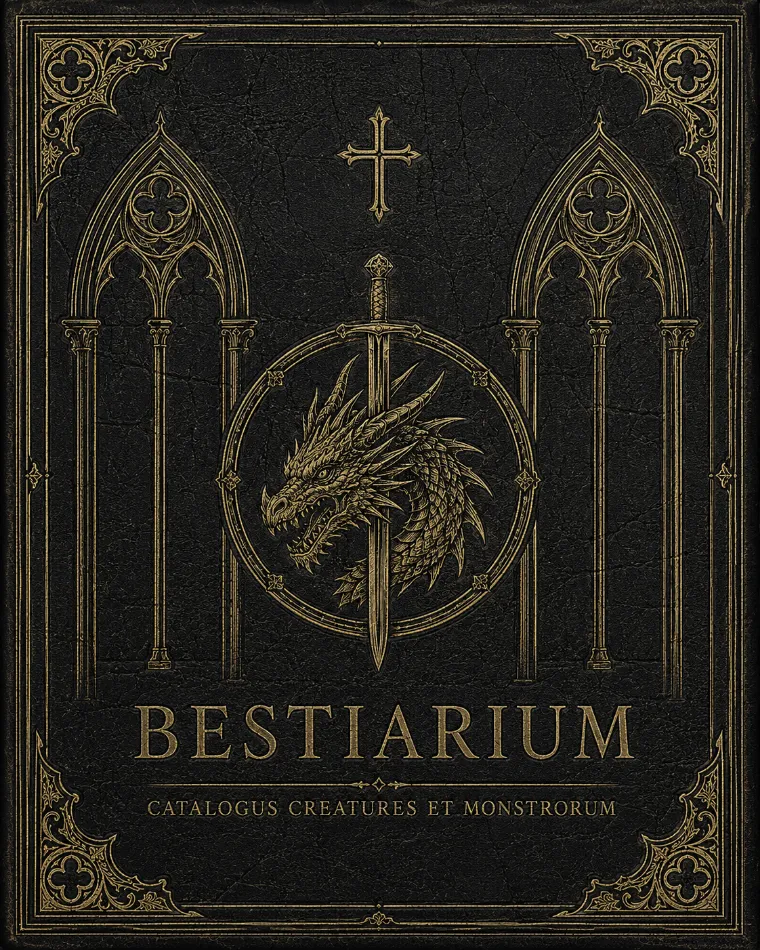
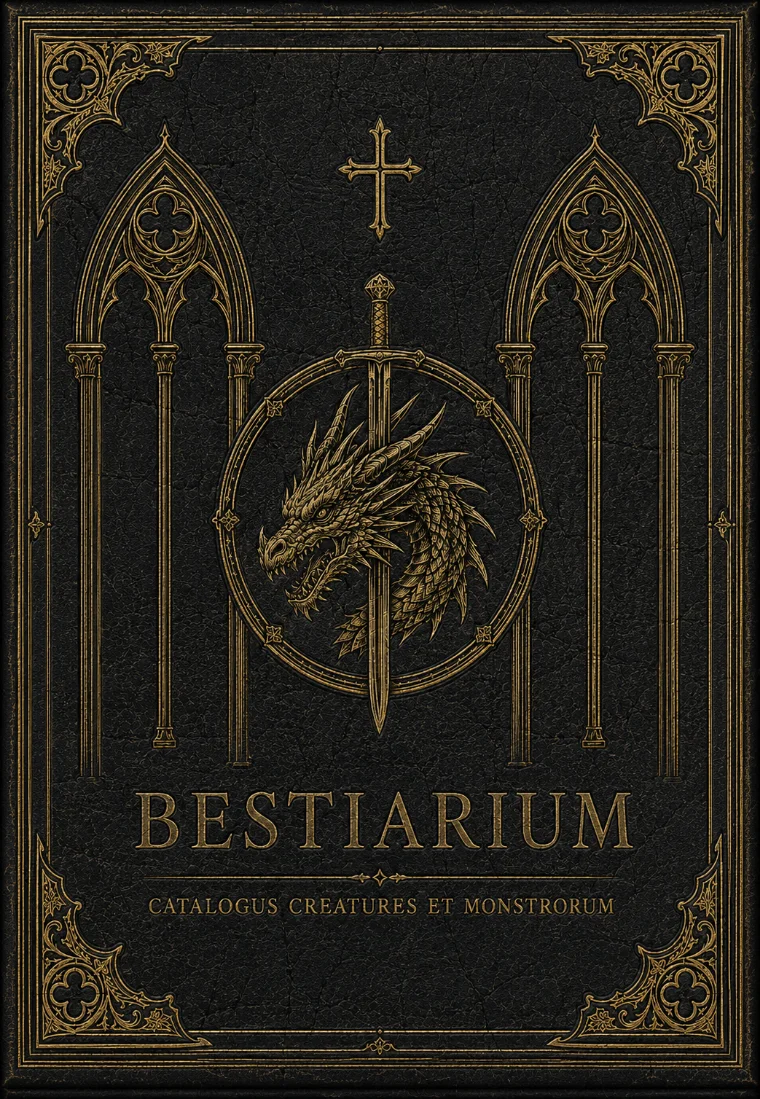
feat(bestiary): готическая пропорция книги 1:1.446
Пропорция была 1:1.2495 — снята со старой обложки 1122×1402 и оказалась слишком
квадратной. Сверка с переплётным делом: средневековая страница заметно уже и выше,
готический канон для фолианта 1:1.43-1.50, реальные тома дают 1.45.

Александр прислал обложку 1043×1508, то есть ровно 1:1.4459. До неё менять
геометрию было нельзя: тиснение растянулось бы. Теперь геометрия повторяет ассет
точно.

За пропорцией потянулось:
- ПРОПОРЦИЯ СЦЕНЫ пересчитана ОТ ГЕОМЕТРИИ, а не от старого ассета: две крышки
  плюс два рубчика дают 2.100 на 1.502, то есть 1.398. Прежние 1586/992 = 1.599
  оставили бы холст на 14% шире самой книги, и она болталась бы в пустоте;
- ЗАМКИ уехали вместе с крышкой на ширину рубчика — иначе налезали на тиснение.

Заодно убраны замеры СТАРОЙ сцены (границы пергамента на развороте, пропорция
крышки, перехлёст). Та сцена собиралась из плоских картинок и подменяла крышку
разворотом на ребре; нынешняя считает геометрию сама. Ни одна из этих констант не
использовалась вне своего модуля и собственных тестов, но одна из них уже начала
врать: тест на ней упал ровно после перехода на новую пропорцию. Два источника
правды рядом неизбежно расходятся.

Тесты переписаны под то, что проверяют теперь: пропорция сцены сходится с
геометрией, холст не шире книги, такты не превращаются в хлопок.

Проверено на стенде в обоих состояниях. НЕ выкатывалось.

diff --git a/app/lib/bestiary.test.ts b/app/lib/bestiary.test.ts
@@ -1,61 +1,49 @@
+// Числа бестиария, от которых зависит и сцена, и её React-обёртка.
+//
+// Прежние тесты меряли ассеты СТАРОЙ сцены — той, что собиралась из плоских
+// картинок и подменяла крышку разворотом в момент, когда элемент повёрнут ребром.
+// Сцена давно на three.js и считает геометрию сама, поэтому те замеры убраны
+// вместе с константами: два источника правды рядом неизбежно расходятся, и один
+// из них начинает тихо врать. Этот тест как раз и поймал расхождение, когда
+// страница перешла на готическую пропорцию.
+
 import { describe, expect, it } from "vitest";
-import {
-  COVER_RATIO,
-  OPEN_MS,
-  PAGE,
-  SPREAD_RATIO,
-  LEAVES,
-  TURN_MS,
-  coverOverhang,
-  pageAspectInSpread,
-  pageHeight,
-  pageWidth,
-} from "./bestiary";
+import { LEAVES, OPEN_MS, SPREAD_RATIO, TURN_MS } from "./bestiary";
 
-describe("геометрия бестиария", () => {
-  it("жёлоб делит разворот пополам", () => {
-    // Сняли замером, а не поставили 0.5: при перегенерации разворота ось
-    // переворота уедет, и лист начнёт вращаться мимо корешка. Пусть об этом
-    // скажет тест, а не глаз на проде.
-    expect(PAGE.gutter).toBeCloseTo(0.5, 2);
+describe("числа бестиария", () => {
+  it("пропорция сцены совпадает с геометрией раскрытой книги", () => {
+    // Ширина разворота: две крышки по (PAGE_W + кант) плюс два рубчика.
+    // Высота: крышка, то есть страница плюс кант сверху и снизу.
+    const PAGE_W = 1;
+    const PAGE_H = PAGE_W * 1.4459;
+    const SQUARE = 0.028;
+    const COVER_T = 0.022;
+    const width = 2 * (PAGE_W + SQUARE) + 2 * COVER_T;
+    const height = PAGE_H + SQUARE * 2;
+    expect(SPREAD_RATIO).toBeCloseTo(width / height, 2);
   });
 
-  it("правая страница лежит правее жёлоба и внутри разворота", () => {
-    expect(PAGE.right).toBeGreaterThan(PAGE.gutter);
-    expect(PAGE.right).toBeLessThan(1);
-    expect(pageWidth()).toBeGreaterThan(0.3);
+  it("холст не шире самой книги — иначе она болтается в пустоте", () => {
+    // Прежние 1586/992 = 1.5988 достались от разворота, нарисованного под
+    // квадратную страницу 1:1.25. После перехода на готическую 1:1.446 холст
+    // оказался бы шире книги на 14 %.
+    expect(SPREAD_RATIO).toBeLessThan(1.45);
+    expect(SPREAD_RATIO).toBeGreaterThan(1.3);
   });
 
-  it("страница занимает почти всю высоту разворота", () => {
-    expect(PAGE.top).toBeGreaterThan(0);
-    expect(PAGE.bottom).toBeLessThan(1);
-    expect(pageHeight()).toBeGreaterThan(0.9);
-  });
-
-  it("лист по пропорции сходится с разворотом", () => {
-    // Считаем ОТ ЖЁЛОБА: лист вращается вокруг корешка, а не вокруг края
-    // видимого пергамента. Разворот и лист сгенерированы порознь, 0.677 против
-    // 0.667 — полтора процента. Если расхождение вырастет, при перевороте
-    // станет видна подмена, и это должен поймать тест, а не глаз на проде.
-    const loose = 1024 / 1536;
-    expect(pageAspectInSpread()).toBeCloseTo(0.677, 2);
-    expect(Math.abs(loose / pageAspectInSpread() - 1)).toBeLessThan(0.04);
-  });
-
-  it("обложка шире половины разворота — отсюда подмена через ребро", () => {
-    // Это не дефект ассетов, а причина всей механики: честно раскрыть альбомную
-    // крышку в книжный разворот нельзя, крышка вылезет за край книги.
-    expect(coverOverhang()).toBeGreaterThan(1.5);
-    expect(COVER_RATIO).toBeLessThan(SPREAD_RATIO);
-  });
-
-  it("такты заданы и вменяемы", () => {
-    // Верхняя граница поднята осознанно: 620 мс читались как хлопок, а книга —
-    // предмет тяжёлый, и спешка выдаёт подделку вернее любой геометрии.
-    expect(OPEN_MS).toBeGreaterThan(900);
+  it("такт открытия не превращается в хлопок", () => {
+    // 620 мс читались именно хлопком: книга тяжёлая, и спешка выдаёт подделку
+    // вернее любой геометрии.
+    expect(OPEN_MS).toBeGreaterThanOrEqual(1200);
     expect(OPEN_MS).toBeLessThan(2400);
-    expect(OPEN_MS % 2).toBe(0); // делится пополам без остатка: две равные фазы
-    expect(TURN_MS).toBeGreaterThan(300);
-    expect(LEAVES).toBeGreaterThan(1);
+    expect(TURN_MS).toBeGreaterThan(500);
+    expect(TURN_MS).toBeLessThan(OPEN_MS);
+  });
+
+  it("листов хватает на разворот с обеих сторон", () => {
+    // Книга раскрывается на середине, поэтому листов нужно чётное число и хотя
+    // бы по паре на сторону.
+    expect(LEAVES % 2).toBe(0);
+    expect(LEAVES).toBeGreaterThanOrEqual(4);
   });
 });

diff --git a/app/lib/bestiary.ts b/app/lib/bestiary.ts
@@ -1,43 +1,18 @@
-// Геометрия бестиария — снята замером с самих картинок, а не подобрана на глаз.
-// Пергамент отделён от переплёта по яркости (порог 0.45), границы взяты по
-// строке через середину разворота. Пересчитывать при замене ассетов.
-
-/** Разворот: 1586×992 в исходнике. */
-export const SPREAD_RATIO = 1586 / 992;
-/** Закрытая обложка: 1448×1086. */
-export const COVER_RATIO = 1448 / 1086;
+// Общие числа бестиария, нужные и сцене, и React-обёртке.
+//
+// Замеры старой сцены (границы пергамента на развороте, пропорция крышки,
+// перехлёст) отсюда убраны: та сцена собиралась из плоских картинок и подменяла
+// крышку разворотом на ребре. Нынешняя считает геометрию сама, и держать рядом
+// два источника правды — прямой путь к расхождению.
 
 /**
- * Область правой страницы в долях разворота. Ось переворота — жёлоб; он лёг
- * ровно по центру (50.06%), но константу держим из замера, а не как 0.5:
- * при перегенерации разворота центр уедет, и лучше это увидеть в тесте.
+ * Пропорция раскрытого разворота — считается ОТ ГЕОМЕТРИИ сцены, а не от старого
+ * ассета. Две крышки (1.028 каждая) плюс два рубчика по 0.022 дают ширину 2.100,
+ * высота крышки 1.502. Прежние 1586/992 = 1.5988 достались от разворота, который
+ * рисовался под квадратную страницу 1:1.25; после перехода на готическую 1:1.446
+ * холст оказался бы на 14% шире самой книги, и она болталась бы в пустоте.
  */
-export const PAGE = {
-  gutter: 794 / 1586,
-  right: 1421 / 1586,
-  top: 27 / 992,
-  bottom: 953 / 992,
-} as const;
-
-export const pageWidth = (): number => PAGE.right - PAGE.gutter;
-export const pageHeight = (): number => PAGE.bottom - PAGE.top;
-
-/**
- * Пропорция переворачиваемого листа (ш/в) — считается ОТ ЖЁЛОБА, а не от края
- * видимого пергамента. Разница существенная: пергамент начинается на x=832
- * (ширина 588 px), но лист вращается вокруг жёлоба на x=794, то есть занимает
- * 627 px. Отсюда 0.677, а не 0.635; присланный отдельный лист даёт 0.667 и
- * сходится с этим в пределах полутора процентов — подрезать почти нечего.
- */
-export const pageAspectInSpread = (): number =>
-  (pageWidth() * SPREAD_RATIO) / pageHeight();
-
-/**
- * Обложка шире половины разворота — книга сгенерирована альбомной, а страницы
- * книжные. Отсюда единственно возможная механика открытия: подмена в момент,
- * когда элемент повёрнут ребром к зрителю и его ширина равна нулю.
- */
-export const coverOverhang = (): number => COVER_RATIO / (SPREAD_RATIO / 2);
+export const SPREAD_RATIO = 2.1 / 1.5019;
 
 /** Такт открытия, мс. Книга — предмет тяжёлый: спешка выдаёт подделку
  *  вернее любой геометрии. 620 мс читались как хлопок. */

diff --git a/app/components/bestiary/threeBook.ts b/app/components/bestiary/threeBook.ts
@@ -93,8 +93,13 @@ export interface BookScene {
 
 /** Ширина страницы принята за единицу; остальное считается от неё. */
 const PAGE_W = 1;
-/** Пропорция обложки, снятая с ассета 1122×1402. */
-const PAGE_H = PAGE_W / 0.8003;
+/**
+ * Пропорция снята с обложки 1043×1508 — готический канон для фолианта.
+ * Прежние 1:1.2495 были сняты со старого ассета 1122×1402 и оказались слишком
+ * квадратными: настоящая средневековая страница заметно уже и выше.
+ * Менять это число без новой обложки нельзя — тиснение растянется.
+ */
+const PAGE_H = PAGE_W * 1.4459;
 const BLOCK_T = 0.29;
 const COVER_T = 0.022;
 /** «Квадрат» — выступ крышки за обрез блока, у переплётчиков миллиметра три. */
@@ -659,7 +664,7 @@ export function createBook(canvas: HTMLCanvasElement, tex: BookTextures): BookSc
   const plateT = 0.014;
   for (const sy of [0.27, -0.27]) {
     const g = new Group();
-    g.position.set(PAGE_W + SQUARE - 0.145, PAGE_H * sy, COVER_T);
+    g.position.set(GROOVE + PAGE_W + SQUARE - 0.145, PAGE_H * sy * 0.72, COVER_T);
     coverHinge.add(g);
     claspGroups.push(g);
 

diff --git a/public/lab.html b/public/lab.html
@@ -27,7 +27,7 @@
         font: 12px/1.5 ui-monospace, "Cascadia Mono", Consolas, monospace;
         display: grid; grid-template-rows: 1fr auto; gap: 14px;
       }
-      #stage { position: relative; width: min(100%, 1120px); aspect-ratio: 1.599; margin: 0 auto }
+      #stage { position: relative; width: min(100%, 1120px); aspect-ratio: 1.398; margin: 0 auto }
       canvas { position: absolute; inset: 0; width: 100%; height: 100%; touch-action: none; cursor: grab }
       canvas:active { cursor: grabbing }
       #panel { width: min(100%, 820px); margin: 0 auto; display: grid; gap: 11px }
